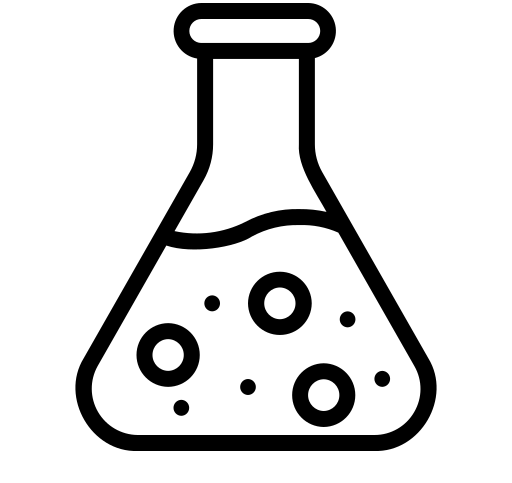
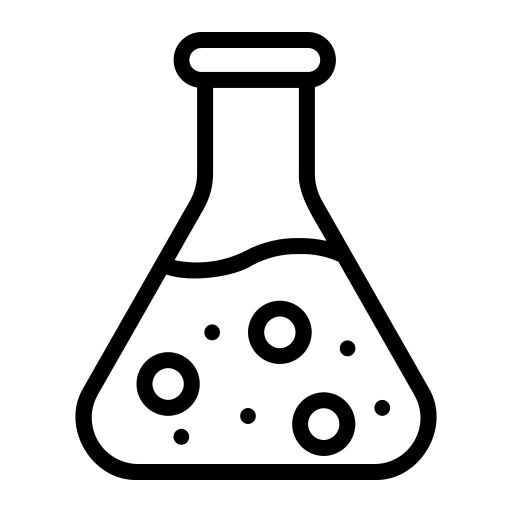
x

diff --git a/index_old.html b/index_old.html
@@ -231,14 +231,11 @@
       </div>
       <div class="post-meta text-muted d-flex justify-content-between">
     
-        <div>
+        <div style="display: flex;align-items: center;gap:6px;">
           <!-- posted date -->
-           <img src="assets/img/rd5.png" width="20px" height="20px"> <span>Research</span>
-           
+           <img src="assets/img/rd5.png" width="20px" height="20px"> <span>Paper</span>
           <i class="far fa-calendar fa-fw"></i>
-          <span>
-            Oct 16, 2025
-          </span>
+          <span>Oct 16, 2025</span>
         </div>
       </div> <!-- .post-meta -->
     </div> <!-- .post-review -->
